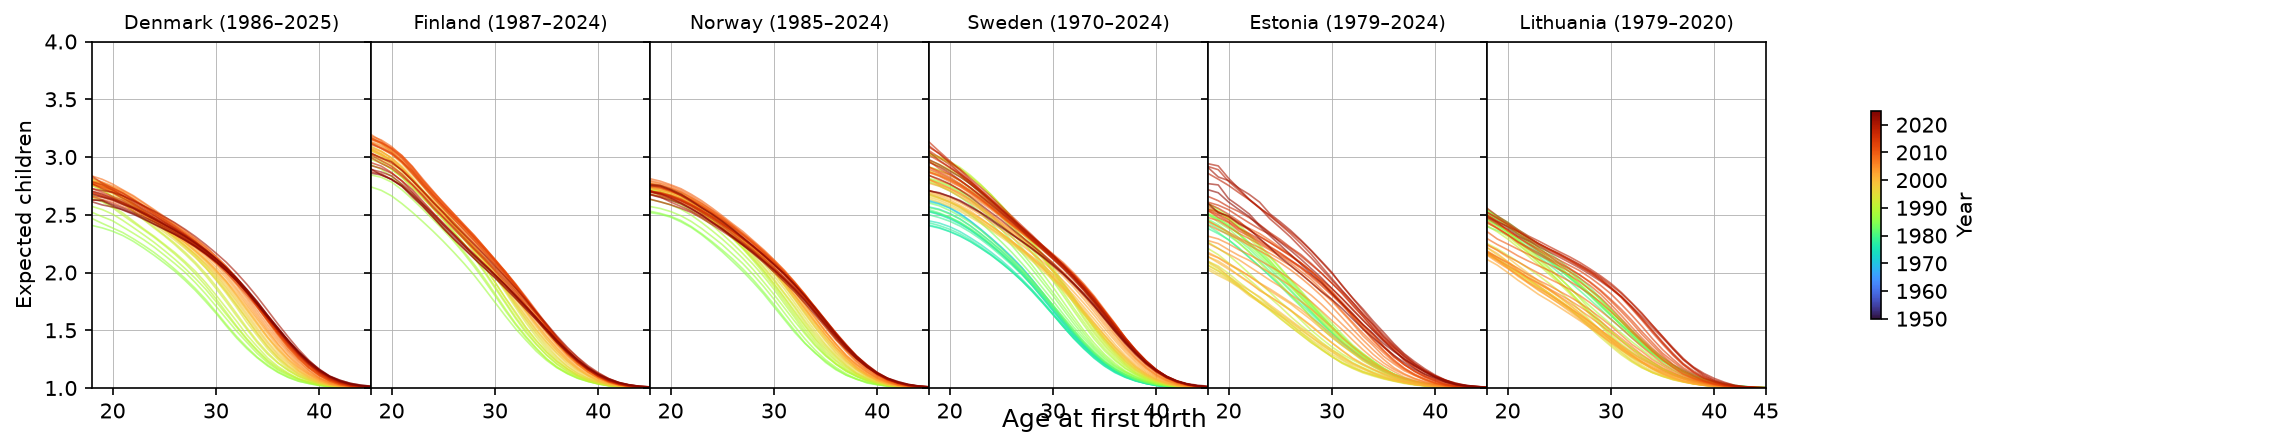
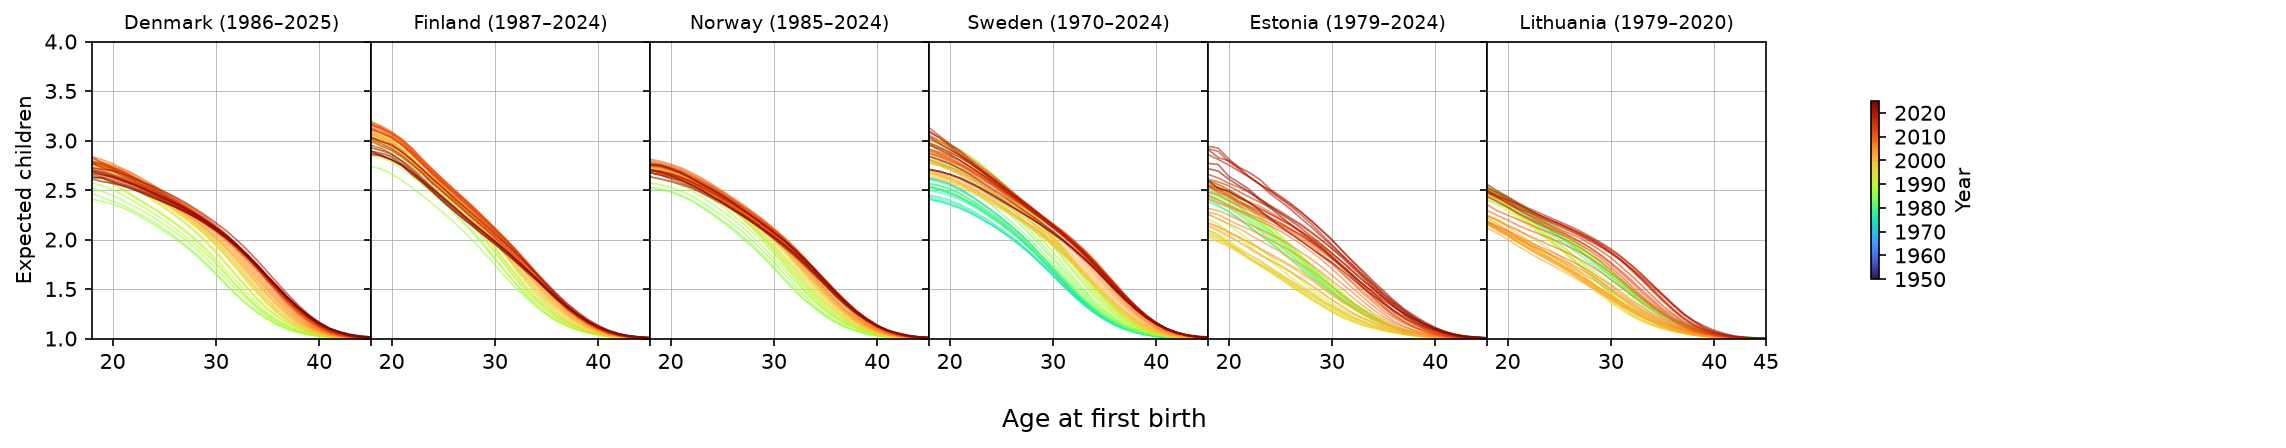
Fix xlabel overlap in region grid charts; add data caveat note
fig.supxlabel had no reserved bottom margin, so it collided with the
bottom row's x-tick labels. Also adds a warning about period-basis
distortion to the intro of the Smaller Families page.

diff --git a/HFD/scripts/births_per_mother_region_grid.py b/HFD/scripts/births_per_mother_region_grid.py
@@ -155,6 +155,7 @@ def make_region_grid(df, countries):
         if visible:
             labels[visible[-1]].set_visible(False)
 
+    fig.subplots_adjust(bottom=0.22)
     fig.supxlabel("Age at first birth")
 
     sm = plt.cm.ScalarMappable(cmap=cmap, norm=norm)

diff --git a/HFD/scripts/births_per_mother_period_grid.py b/HFD/scripts/births_per_mother_period_grid.py
@@ -83,6 +83,7 @@ def make_region_grid(df, countries):
         if visible:
             labels[visible[-1]].set_visible(False)
 
+    fig.subplots_adjust(bottom=0.22)
     fig.supxlabel("Age at first birth")
 
     sm = plt.cm.ScalarMappable(cmap=cmap, norm=norm)

diff --git a/docs/hfd/smaller-families.md b/docs/hfd/smaller-families.md
@@ -2,9 +2,14 @@
 
 In many countries the average family size is decreasing; there are increasingly more single child families. This is often described as a preference for fewer children. However this does not account for the first child being born later.
 
-If there was a preference for fewer children, the total number of children should decrease when controlling for the age of her first birth. This is not seen when plotting the expected number of children against the age of first birth.
+If there was a preference for fewer children, the total number of children should decrease when controlling for the age of her first birth. This is not seen when plotting the expected number of children against the age of first birth. This suggests women who desire multiple children are having their first child later.
 
-This suggests women who desire multiple children are having their first child later.
+```{warning}
+Most countries do not collect or make data available that shows this. The plots below have been calculated using the conditional probabilities of each birth without information on birth year. This distorts the plot, however the general trends discussed are the same. 
+
+```
+
+
 
 ```{region-tabs} births_per_mother_region Expected total children given first birth at that age, {region}
 ```
